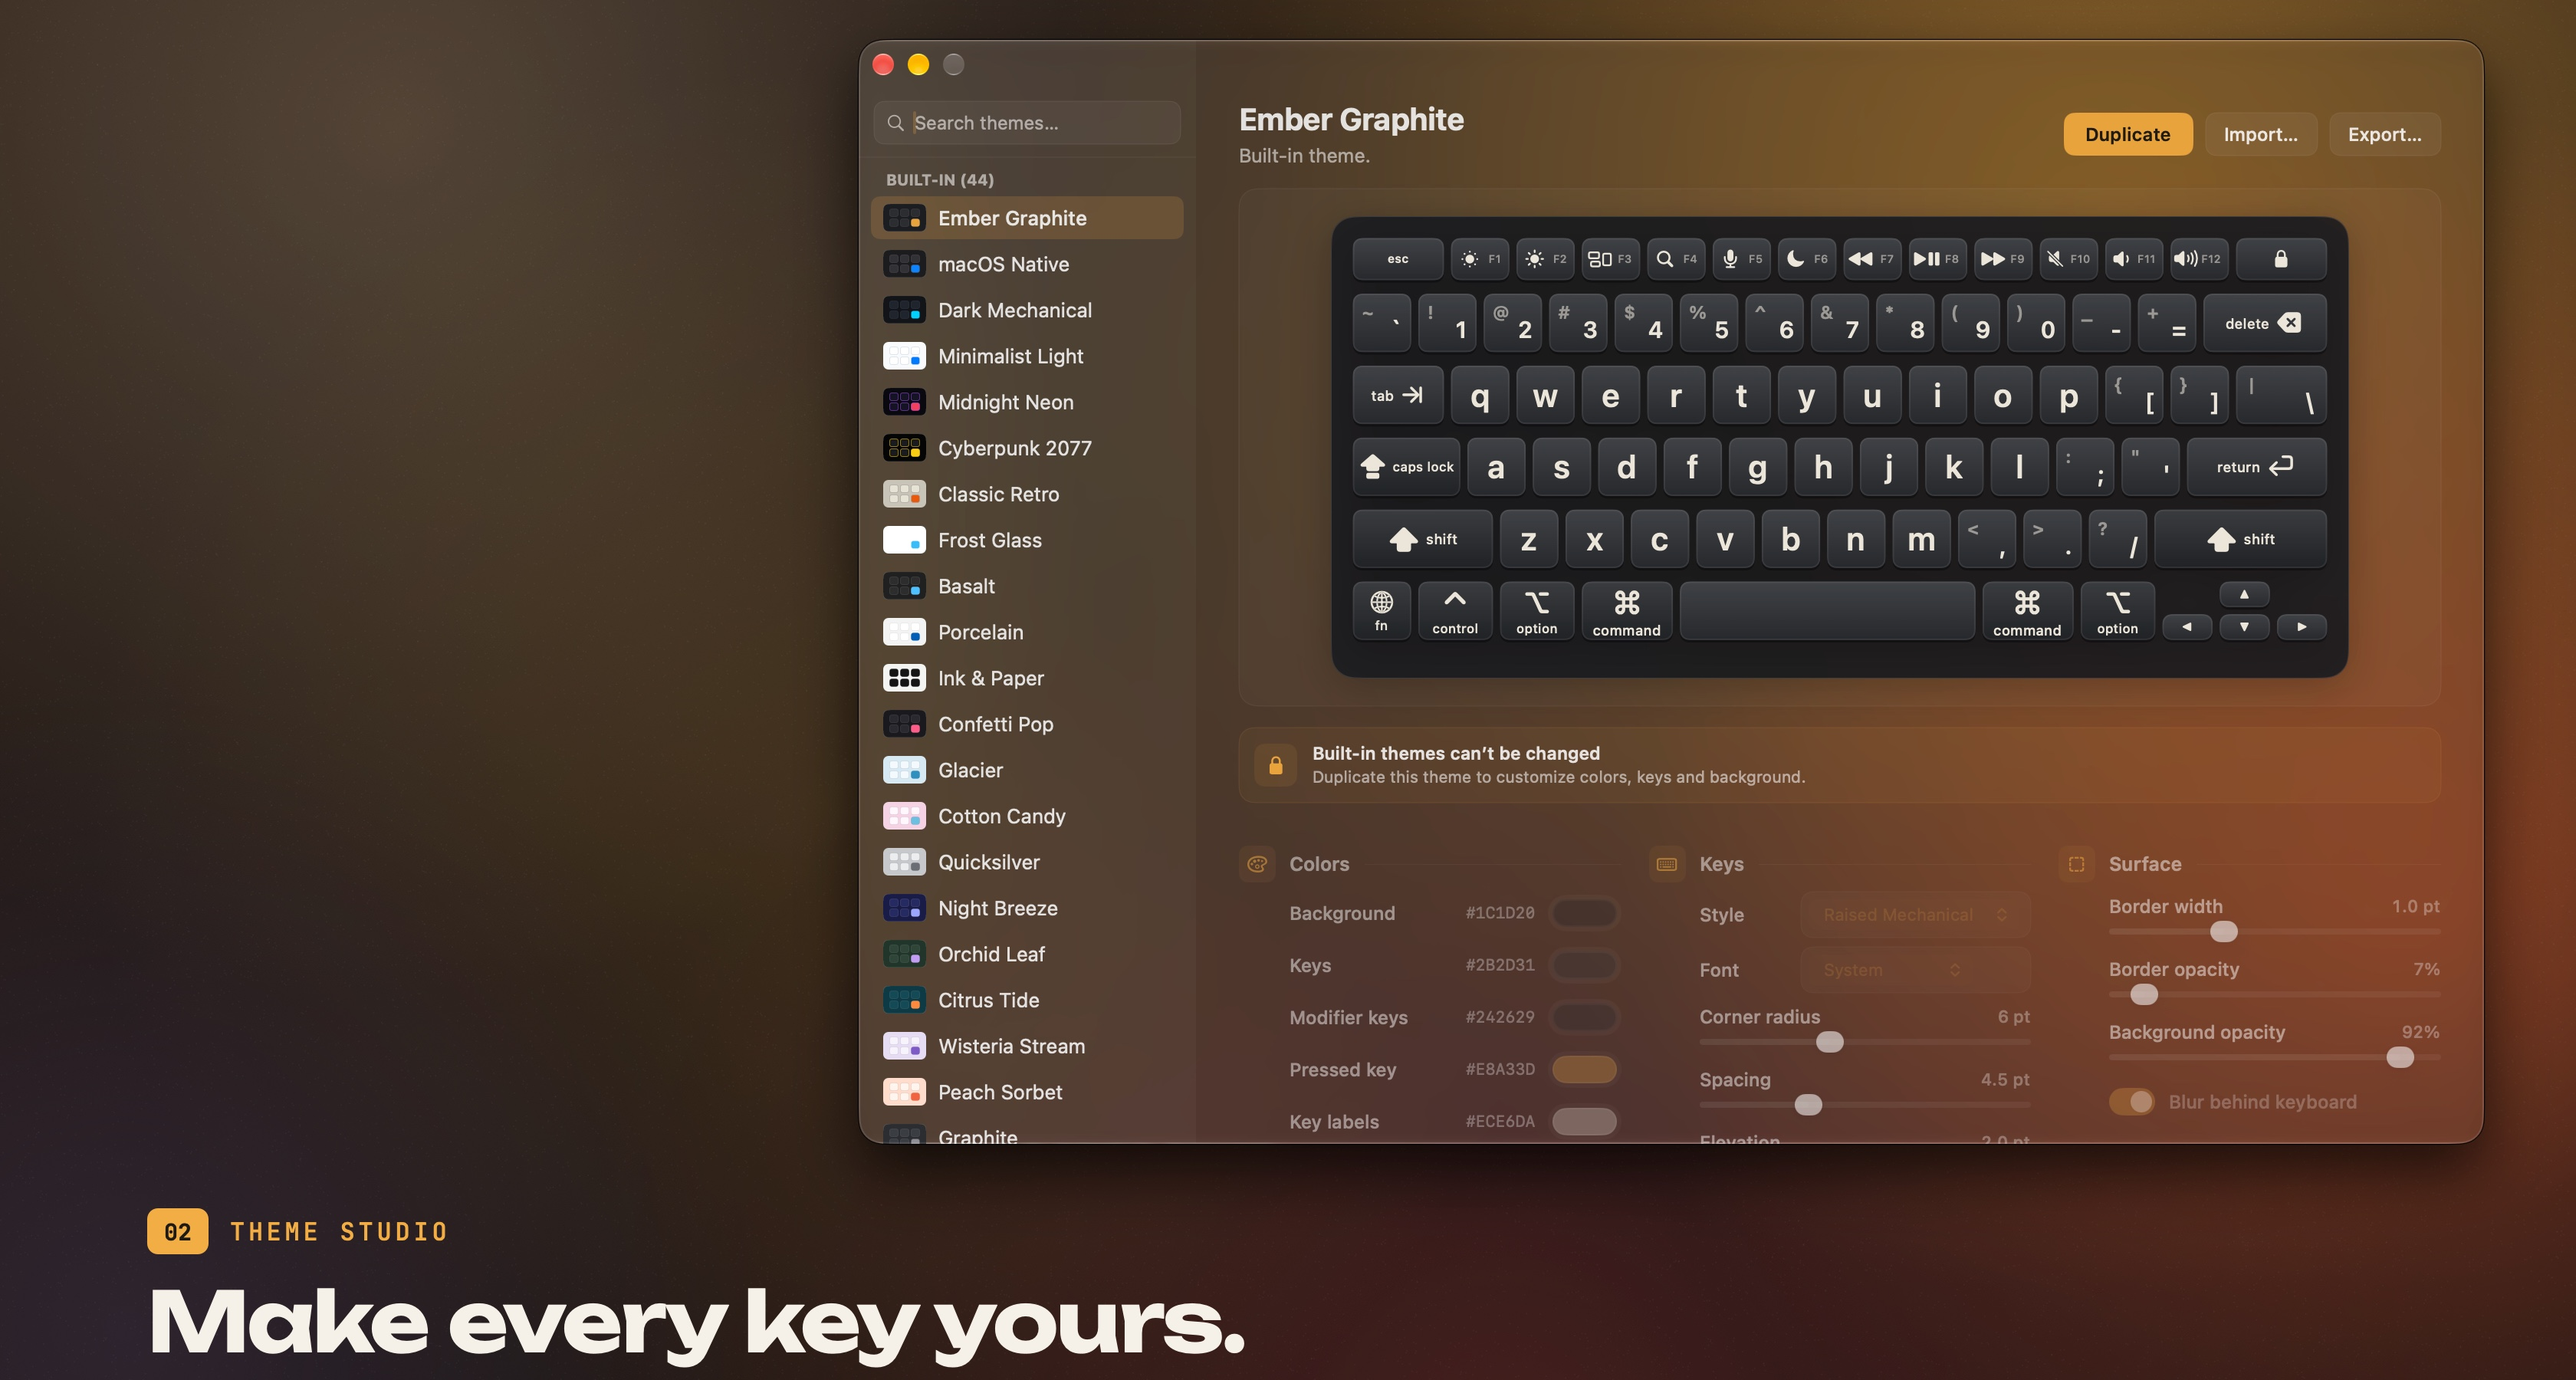
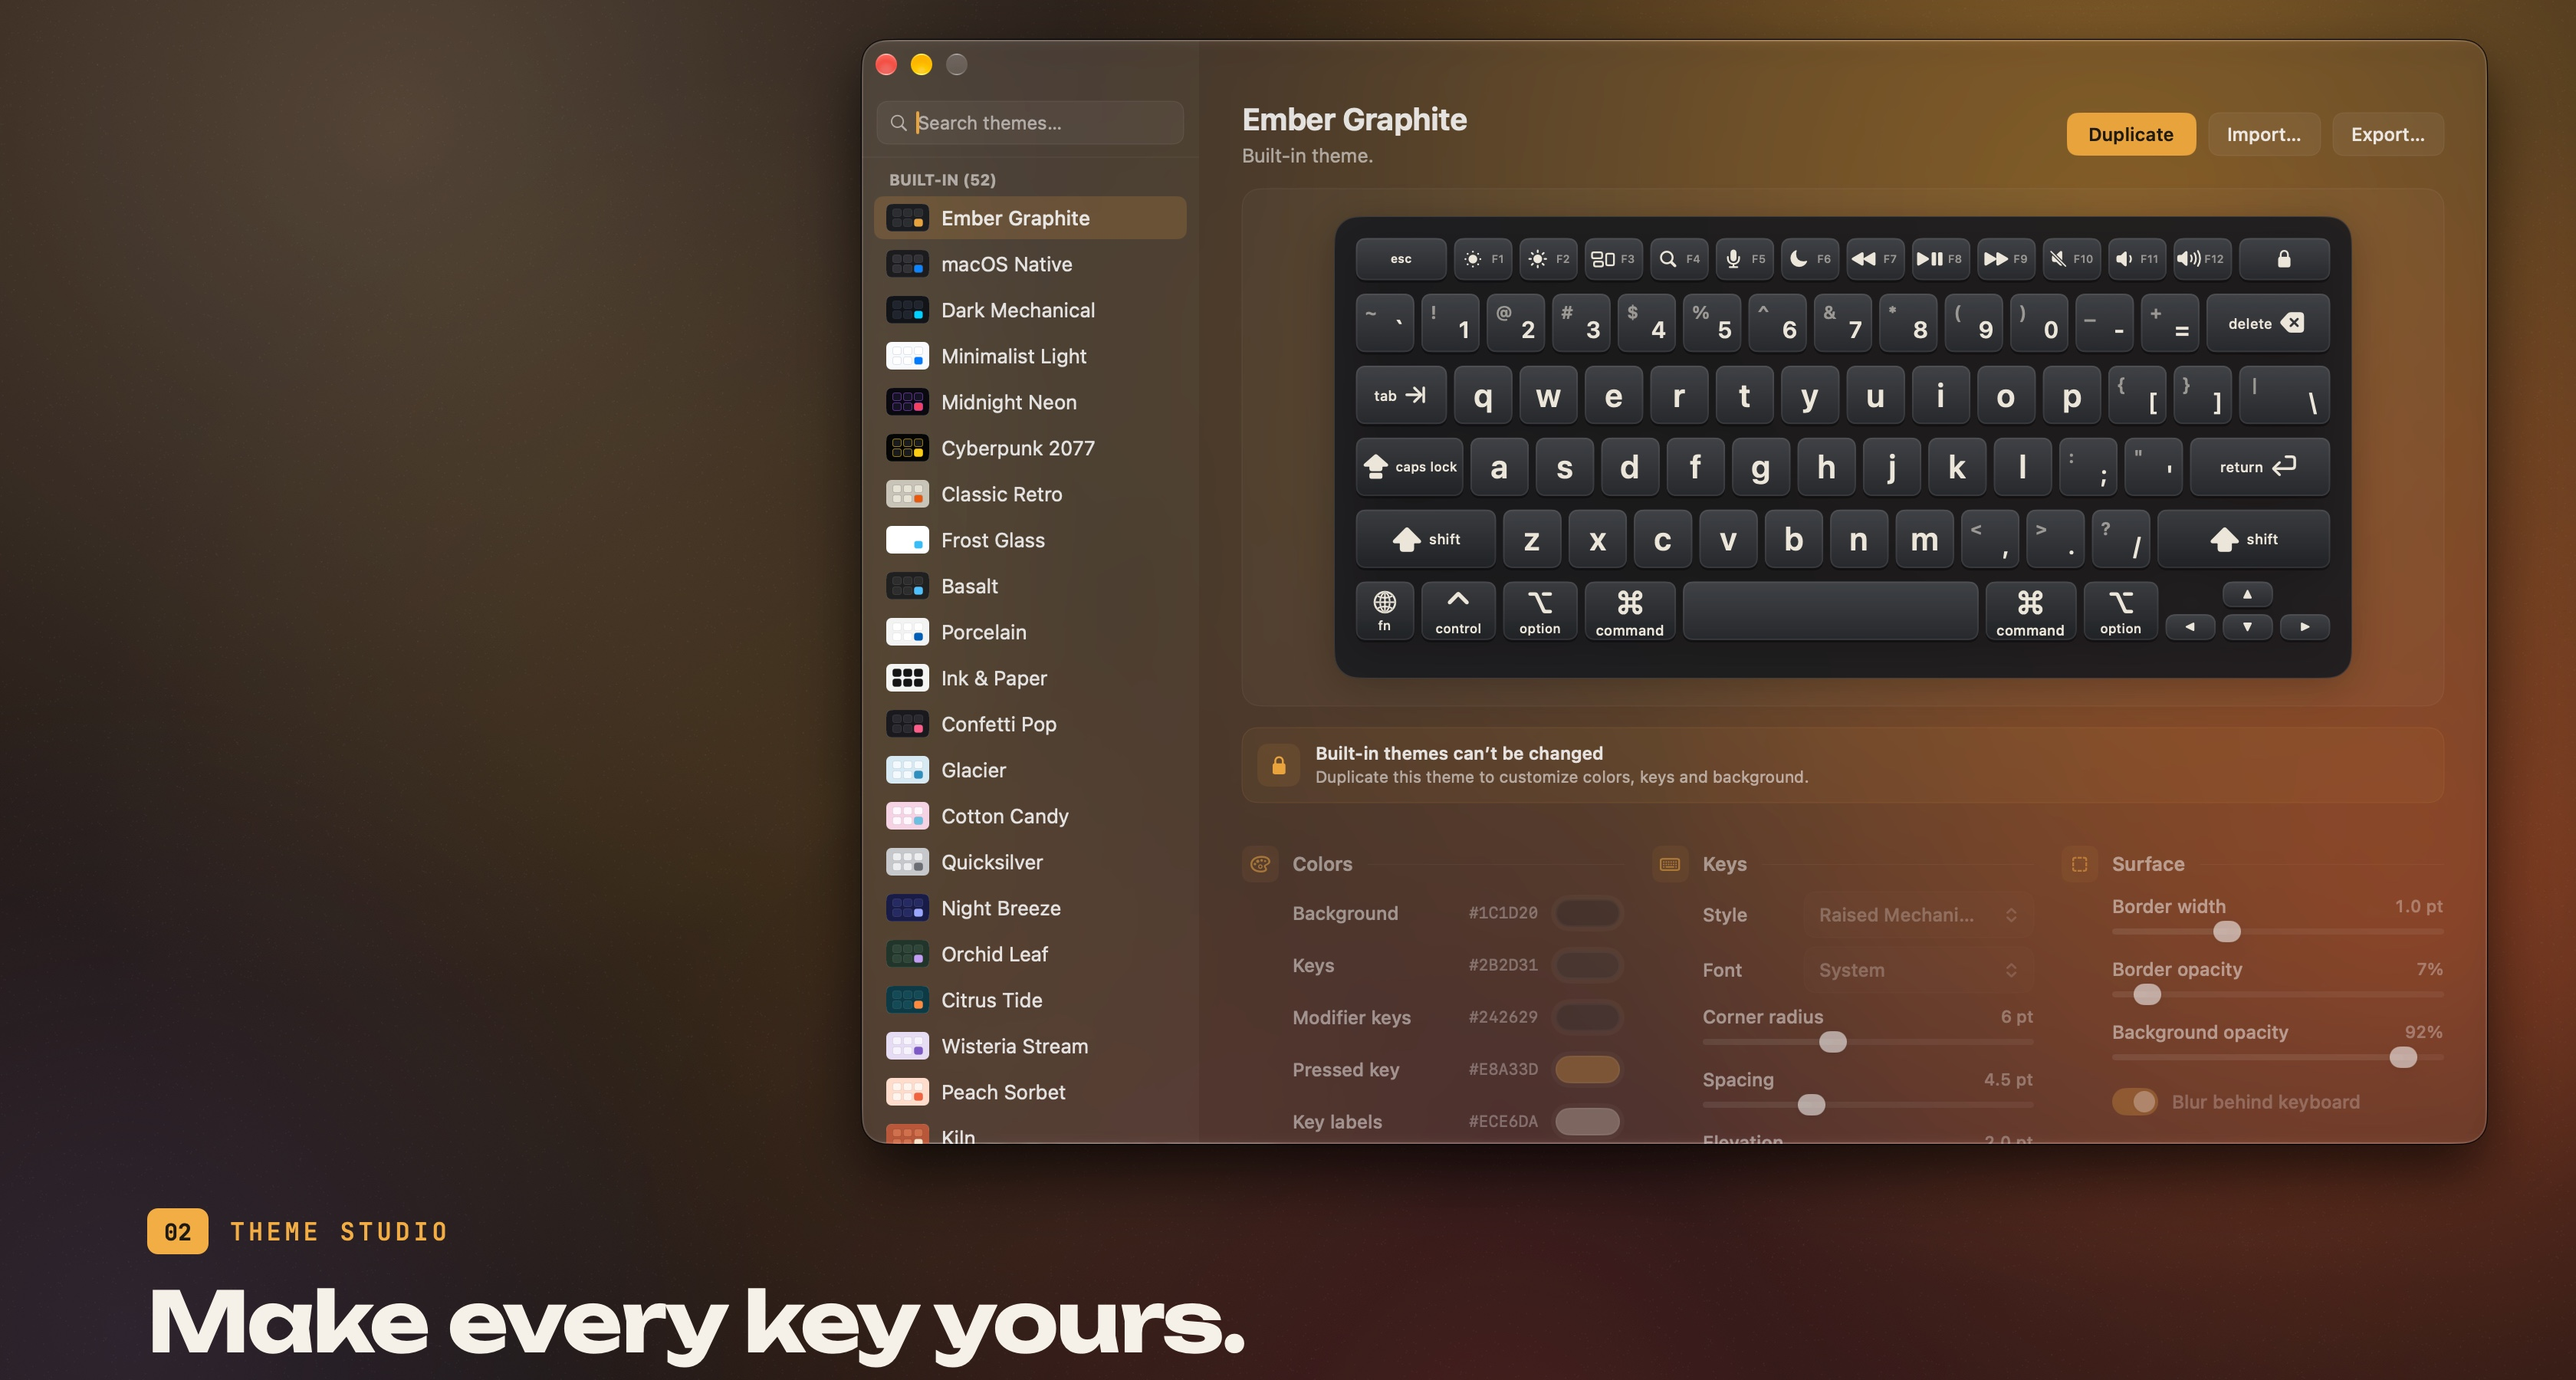
feat: add eight new built-in keyboard themes and update documentation

diff --git a/Sources/Keyli/Core/Models/KeyboardTheme.swift b/Sources/Keyli/Core/Models/KeyboardTheme.swift
@@ -1135,6 +1135,182 @@ extension KeyboardTheme {
         fontDesign: "rounded"
     )
 
+    public static let kiln = KeyboardTheme(
+        id: "kiln",
+        name: "Kiln",
+        isBuiltIn: true,
+        backgroundColorHex: "#B9583A",
+        backgroundOpacity: 0.94,
+        backgroundBlur: true,
+        keycapBaseColorHex: "#D0704D",
+        keycapActiveColorHex: "#FBE3C8",
+        keycapTextColorHex: "#3A140A",
+        accentColorHex: "#FBE3C8",
+        modifierKeyColorHex: "#C4643F",
+        cornerRadius: 6.0,
+        keySpacing: 4.0,
+        borderWidth: 1.0,
+        borderColorHex: "#3A140A",
+        borderOpacity: 0.18,
+        keyElevation: 1.5,
+        keycapStyle: .raised,
+        fontDesign: "rounded"
+    )
+
+    public static let concrete = KeyboardTheme(
+        id: "concrete",
+        name: "Concrete",
+        isBuiltIn: true,
+        backgroundColorHex: "#8E8E88",
+        backgroundOpacity: 0.96,
+        backgroundBlur: false,
+        keycapBaseColorHex: "#B4B4AD",
+        keycapActiveColorHex: "#FFA36B",
+        keycapTextColorHex: "#1A1A1A",
+        accentColorHex: "#FFA36B",
+        modifierKeyColorHex: "#A3A39C",
+        cornerRadius: 0.0,
+        keySpacing: 3.0,
+        borderWidth: 1.0,
+        borderColorHex: "#1A1A1A",
+        borderOpacity: 0.35,
+        keyElevation: 0.0,
+        keycapStyle: .flat,
+        fontDesign: "monospaced"
+    )
+
+    public static let oxblood = KeyboardTheme(
+        id: "oxblood",
+        name: "Oxblood",
+        isBuiltIn: true,
+        backgroundColorHex: "#2A0A10",
+        backgroundOpacity: 0.94,
+        backgroundBlur: true,
+        keycapBaseColorHex: "#4A1220",
+        keycapActiveColorHex: "#E8C46A",
+        keycapTextColorHex: "#F1E3C8",
+        accentColorHex: "#E8C46A",
+        modifierKeyColorHex: "#3B0E19",
+        cornerRadius: 5.0,
+        keySpacing: 4.0,
+        borderWidth: 1.0,
+        borderColorHex: "#E8C46A",
+        borderOpacity: 0.22,
+        keyElevation: 2.0,
+        keycapStyle: .raised,
+        fontDesign: "serif"
+    )
+
+    public static let risoPrint = KeyboardTheme(
+        id: "riso_print",
+        name: "Riso Print",
+        isBuiltIn: true,
+        backgroundColorHex: "#F2EBDD",
+        backgroundOpacity: 0.96,
+        backgroundBlur: false,
+        keycapBaseColorHex: "#FFF8EC",
+        keycapActiveColorHex: "#FFA0D6",
+        keycapTextColorHex: "#00786B",
+        accentColorHex: "#FFA0D6",
+        modifierKeyColorHex: "#F7EFDF",
+        cornerRadius: 2.0,
+        keySpacing: 4.0,
+        borderWidth: 1.5,
+        borderColorHex: "#00786B",
+        borderOpacity: 0.55,
+        keyElevation: 0.0,
+        keycapStyle: .flat,
+        fontDesign: "monospaced"
+    )
+
+    public static let oliveGrove = KeyboardTheme(
+        id: "olive_grove",
+        name: "Olive Grove",
+        isBuiltIn: true,
+        backgroundColorHex: "#3D3D1F",
+        backgroundOpacity: 0.93,
+        backgroundBlur: true,
+        keycapBaseColorHex: "#55552C",
+        keycapActiveColorHex: "#E5D36B",
+        keycapTextColorHex: "#F0EDD0",
+        accentColorHex: "#E5D36B",
+        modifierKeyColorHex: "#494925",
+        cornerRadius: 6.0,
+        keySpacing: 4.0,
+        borderWidth: 1.0,
+        borderColorHex: "#F0EDD0",
+        borderOpacity: 0.1,
+        keyElevation: 1.0,
+        keycapStyle: .chicklet,
+        fontDesign: "default"
+    )
+
+    public static let blacklight = KeyboardTheme(
+        id: "blacklight",
+        name: "Blacklight",
+        isBuiltIn: true,
+        backgroundColorHex: "#12001F",
+        backgroundOpacity: 0.94,
+        backgroundBlur: true,
+        keycapBaseColorHex: "#24003D",
+        keycapActiveColorHex: "#B6FF3B",
+        keycapTextColorHex: "#E9D7FF",
+        accentColorHex: "#B6FF3B",
+        modifierKeyColorHex: "#1B002E",
+        cornerRadius: 7.0,
+        keySpacing: 4.0,
+        borderWidth: 1.0,
+        borderColorHex: "#B6FF3B",
+        borderOpacity: 0.25,
+        keyElevation: 0.0,
+        keycapStyle: .glass,
+        fontDesign: "rounded"
+    )
+
+    public static let dune = KeyboardTheme(
+        id: "dune",
+        name: "Dune",
+        isBuiltIn: true,
+        backgroundColorHex: "#E8D2B0",
+        backgroundOpacity: 0.94,
+        backgroundBlur: true,
+        keycapBaseColorHex: "#F5E6CC",
+        keycapActiveColorHex: "#B5462F",
+        keycapTextColorHex: "#4A2E1A",
+        accentColorHex: "#B5462F",
+        modifierKeyColorHex: "#EEDBBC",
+        cornerRadius: 8.0,
+        keySpacing: 5.0,
+        borderWidth: 1.0,
+        borderColorHex: "#4A2E1A",
+        borderOpacity: 0.15,
+        keyElevation: 1.5,
+        keycapStyle: .chicklet,
+        fontDesign: "default"
+    )
+
+    public static let mustard = KeyboardTheme(
+        id: "mustard",
+        name: "Mustard",
+        isBuiltIn: true,
+        backgroundColorHex: "#E1A92B",
+        backgroundOpacity: 0.95,
+        backgroundBlur: false,
+        keycapBaseColorHex: "#F0C14F",
+        keycapActiveColorHex: "#2B1E05",
+        keycapTextColorHex: "#2B1E05",
+        accentColorHex: "#2B1E05",
+        modifierKeyColorHex: "#E8B43A",
+        cornerRadius: 4.0,
+        keySpacing: 4.0,
+        borderWidth: 1.0,
+        borderColorHex: "#2B1E05",
+        borderOpacity: 0.2,
+        keyElevation: 0.0,
+        keycapStyle: .fluent,
+        fontDesign: "rounded"
+    )
+
     public static let defaultTheme: KeyboardTheme = .emberGraphite
 
     public static let builtInThemes: [KeyboardTheme] = [
@@ -1158,6 +1334,14 @@ extension KeyboardTheme {
         .citrusTide,
         .wisteriaStream,
         .peachSorbet,
+        .kiln,
+        .concrete,
+        .oxblood,
+        .risoPrint,
+        .oliveGrove,
+        .blacklight,
+        .dune,
+        .mustard,
         .graphite,
         .silverAluminum,
         .spaceBlack,

diff --git a/Scripts/screenshots/poster.swift b/Scripts/screenshots/poster.swift
@@ -80,7 +80,7 @@ case "hero":
     headline("Keep your focus.", top: 340, size: 66, color: amber)
     body("An on-screen keyboard that lives in your menu bar. Click a key and it lands in the app you’re using, which never loses focus.", top: 444, width: 600)
     var chipX = left
-    for label in ["44 themes", "Every Mac layout", "Private & offline", "macOS 14+"] {
+    for label in ["52 themes", "Every Mac layout", "Private & offline", "macOS 14+"] {
         let f = font("Onest-SemiBold", 17)
         let sz = NSAttributedString(string: label, attributes: [.font: f]).size()
         let r = NSRect(x: chipX, y: H - 590 - 40, width: sz.width + 32, height: 40)
@@ -104,7 +104,7 @@ case "hero":
     c("#E8A33D").setFill(); rounded(NSRect(x: doc.minX + 40 + last.width + 5, y: H - 90 - 154 - last.height + 1, width: 3, height: last.height - 2), 1.5).fill()
 case "themes":
     kicker("01", "THEMES", top: 822)
-    headline("44 looks. One click.", top: 866)
+    headline("52 looks. One click.", top: 866)
 case "studio":
     kicker("02", "THEME STUDIO", top: 822)
     headline("Make every key yours.", top: 866)

diff --git a/Scripts/screenshots/final.swift b/Scripts/screenshots/final.swift
@@ -23,8 +23,8 @@ func paste(_ ctx: CGContext, _ src: CGImage, _ r: CGRect) {
 for (src, file) in [("cap_hero.png", "hero.jpg"), ("cap_settings.png", "settings.jpg"), ("cap_studio.png", "theme-studio.jpg")] {
     save(canvas(from: cg(src)), file)
 }
-let themes = canvas(from: cg("cap_theme_porcelain.png"))
-paste(themes, cg("cap_theme_classic_retro.png"), CGRect(x: 862, y: 125, width: 818, height: 467))
-paste(themes, cg("cap_theme_citrus_tide.png"), CGRect(x: 898, y: 509, width: 782, height: 425))
+let themes = canvas(from: cg("cap_theme_kiln.png"))
+paste(themes, cg("cap_theme_riso_print.png"), CGRect(x: 862, y: 125, width: 818, height: 467))
+paste(themes, cg("cap_theme_blacklight.png"), CGRect(x: 898, y: 509, width: 782, height: 425))
 save(themes, "themes.jpg")
 print("ok")

diff --git a/Tests/KeyliTests/ThemeTests.swift b/Tests/KeyliTests/ThemeTests.swift
@@ -7,7 +7,7 @@ import SwiftUI
 struct ThemeTests {
     @Test("Built-in Themes Count and Presence")
     func testBuiltInThemesExist() {
-        #expect(KeyboardTheme.builtInThemes.count == 44)
+        #expect(KeyboardTheme.builtInThemes.count == 52)
         #expect(KeyboardTheme.basalt.keycapStyle == .fluent)
         #expect(KeyboardTheme.porcelain.keycapStyle == .fluent)
         #expect(KeyboardTheme.basalt.isDarkBackground)

diff --git a/CHANGELOG.md b/CHANGELOG.md
@@ -11,7 +11,7 @@ First release of Keyli, an on-screen keyboard for macOS that types without steal
 - **Real Mac layouts**: US ANSI, ISO, JIS and Compact layouts with labels from your current input source, plus an input source picker in Settings › Keyboard.
 - **Function row and fn**: brightness, Mission Control, Spotlight, media, volume and lock keys. Tapping fn does what your Globe key does in System Settings; holding it latches F1–F12. fn + arrows, delete and return send Home, End, Page Up, Page Down, Forward Delete and Enter.
 - **Physical key highlighting**: optionally lights up the keys you press on your real keyboard, only while a keyboard is visible.
-- **44 built-in themes**, including Ember Graphite, macOS Native (follows light and dark mode) and Layered Flat styles.
+- **52 built-in themes**, including Ember Graphite, macOS Native (follows light and dark mode), Layered Flat styles, and Kiln, Concrete, Oxblood, Riso Print, Olive Grove, Blacklight, Dune and Mustard.
 - **Theme Studio**: search, duplicate, rename, live edit, delete, and import or export themes as JSON. Built-in themes are read-only.
 - **Settings**: Keyboard, Typing, Themes, General, Permissions and About pages, with Classic or Liquid Glass window style.
 - **Permissions**: Accessibility, Input Monitoring and Open at Login with live status and one-click Allow, Repair and Relaunch. Signed with a stable requirement so permissions survive updates.

diff --git a/README.md b/README.md
@@ -40,12 +40,12 @@
 - Click the menu bar icon to show or hide the keyboard. Pin it to keep it above other windows.
 
 <p align="center">
-  <img src="Support/Screenshots/themes.jpg" width="100%" alt="Three Keyli keyboards in the Porcelain, Classic Retro and Citrus Tide themes" />
+  <img src="Support/Screenshots/themes.jpg" width="100%" alt="Three Keyli keyboards in the Kiln, Riso Print and Blacklight themes" />
 </p>
 
 ## Themes
 
-44 built-in themes, from macOS-native and mechanical looks to flat Windows-inspired styles, retro terminals and glass. Theme Studio lets you duplicate any theme and change its colors, key style, font, spacing, borders and background, then export or import it as JSON.
+52 built-in themes, from macOS-native and mechanical looks to flat Windows-inspired styles, retro terminals, glass, and bolder palettes like Kiln, Riso Print, Blacklight and Mustard. Theme Studio lets you duplicate any theme and change its colors, key style, font, spacing, borders and background, then export or import it as JSON.
 
 <p align="center">
   <img src="Support/Screenshots/theme-studio.jpg" width="100%" alt="Theme Studio with the theme list, a live keyboard preview and color, key and surface controls" />
